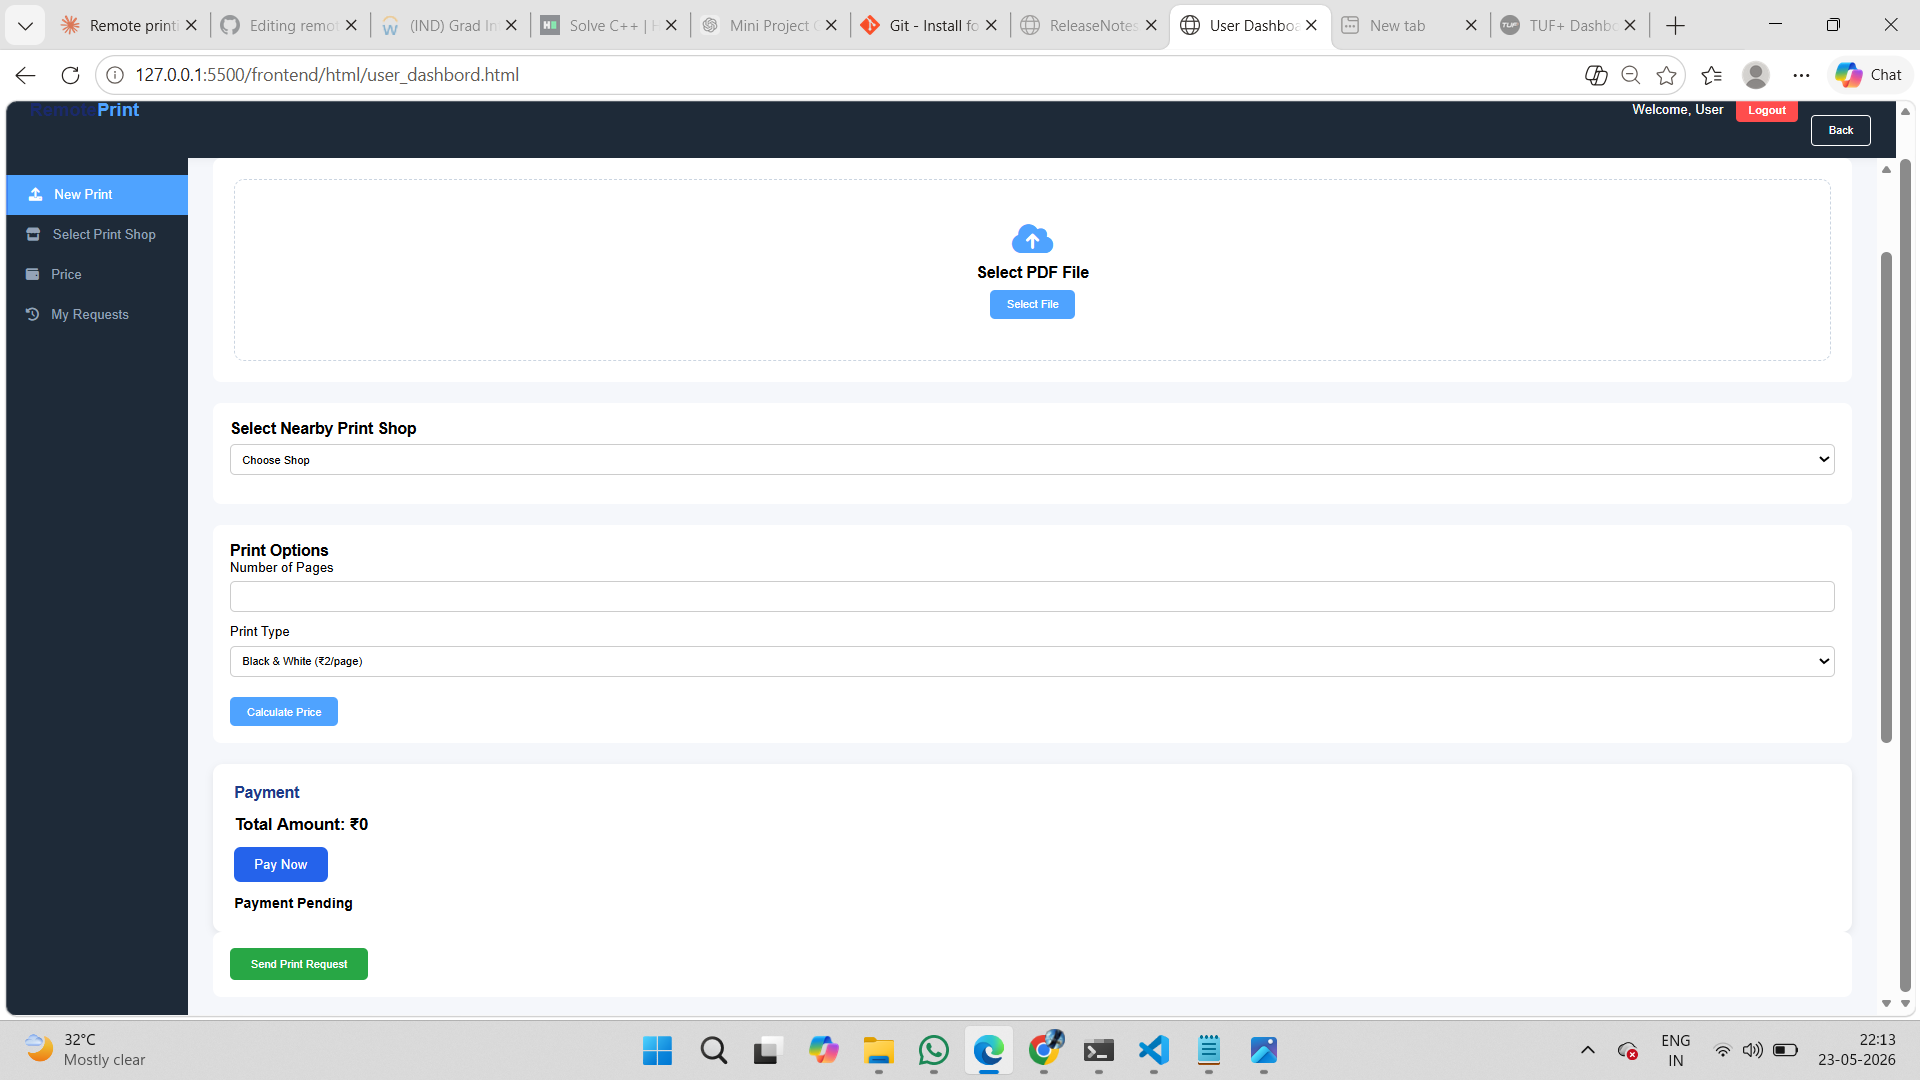
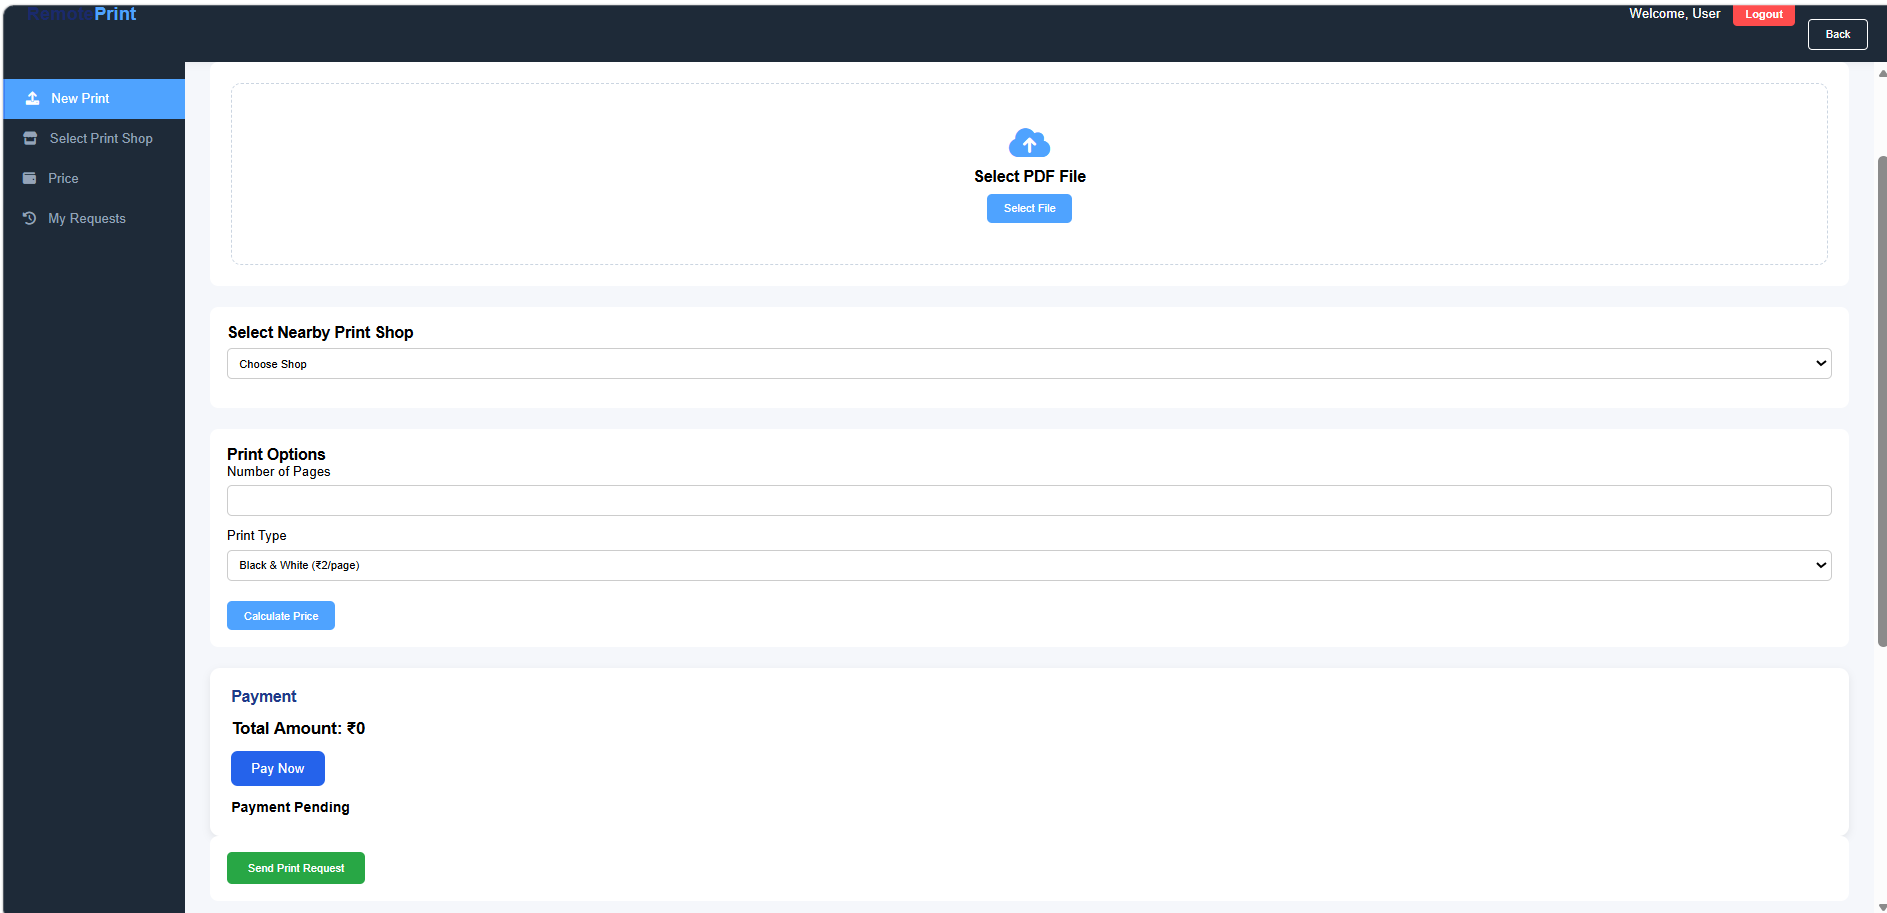
Added payment simulation and fixed Cloudinary upload

Changed region(s): [[0.0, 0.0, 1.0, 1.0], [0.1229, 0.3373, 0.2152, 0.4294]]

diff --git a/frontend/js/dashbord.js b/frontend/js/dashbord.js
@@ -400,7 +400,7 @@ if (!paymentDone) {
         // ================= CLOUDINARY UPLOAD =================
         const response = await fetch(
 
-            "https://api.cloudinary.com/v1_1/dky77tacp/auto/upload",
+            "https://api.cloudinary.com/v1_1/dky77tacp/raw/upload",
 
             {
                 method: "POST",
@@ -410,22 +410,17 @@ if (!paymentDone) {
         );
 
 
+const data = await response.json();
 
-        const data = await response.json();
+console.log("Cloudinary Response:", data);
 
+if (!response.ok) {
+    console.error(data);
+    alert(data.error.message);
+    throw new Error(data.error.message);
+}
 
-
-        if (!data.secure_url) {
-
-            console.error(data);
-
-            throw new Error("Cloudinary Upload Failed");
-
-        }
-
-
-
-        console.log("Cloudinary Success");
+console.log("Upload Success:", data);
 
 
 

diff --git a/frontend/js/admin.js b/frontend/js/admin.js
@@ -117,6 +117,7 @@ function loadAdminDashboard() {
                         <td>${order.userId.substring(0,5)}...</td>
                         <td>${order.token}</td>
                         <td><a href="${order.fileUrl}" target="_blank">View PDF</a></td>
+                        
                         <td>${order.pages}</td>
                         <td>₹${order.price}</td>
                        <td>${order.status}</td>
